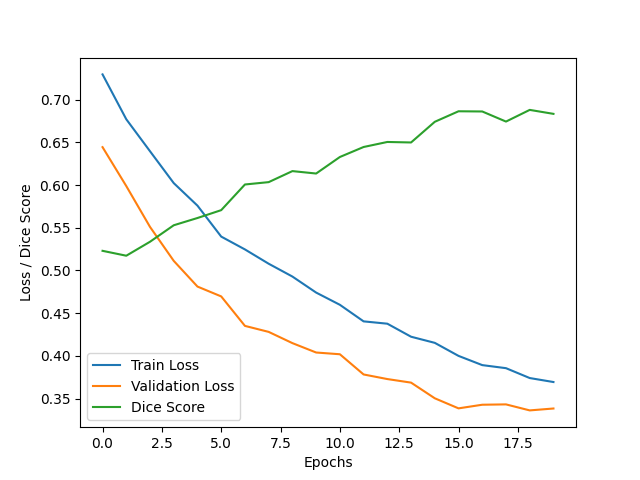
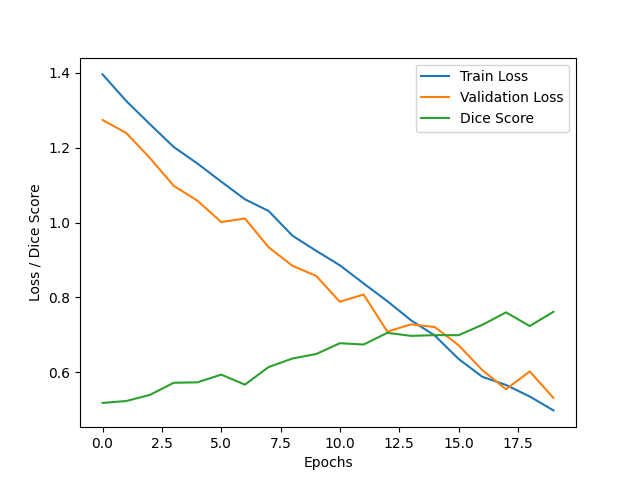
changed loss function and scheduler, dice value increased from .688 to .7617

diff --git a/classical_ml/models/train.py b/classical_ml/models/train.py
@@ -5,6 +5,7 @@ import numpy as np
 from pathlib import Path
 from torch.utils.data import Dataset, DataLoader
 import torch
+import torch.nn as nn
 import torch.optim as optim
 from tqdm import tqdm
 import matplotlib.pyplot as plt
@@ -169,9 +170,14 @@ model = UNet(
     num_res_units=2,
 ).to(device)
 
-criterion = DiceLoss(sigmoid=True)
+# criterion = DiceLoss(sigmoid=True)
+dice_loss = DiceLoss(sigmoid=True)
+bce_loss = nn.BCEWithLogitsLoss()
+def criterion(outputs, masks):
+    return dice_loss(outputs, masks) + bce_loss(outputs, masks)
 optimizer = optim.Adam(model.parameters(), lr=1e-3)
-scheduler = optim.lr_scheduler.StepLR(optimizer, step_size=5, gamma=0.5)
+# scheduler = optim.lr_scheduler.StepLR(optimizer, step_size=5, gamma=0.5)
+scheduler = optim.lr_scheduler.ReduceLROnPlateau(optimizer, mode='min', patience=5, factor=0.5)
 num_epochs = 20
 
 
@@ -233,7 +239,7 @@ for epoch in range(num_epochs):
 
     val_loss = val_loss / val_total if val_total > 0 else 0.0
     val_dice = np.mean(dice_scores)
-    scheduler.step()
+    scheduler.step(val_loss)
 
     print(f"Epoch {epoch+1:02d}: Train Loss {train_loss:.4f} | Val Loss {val_loss:.4f} | Val Dice {val_dice:.4f}")
 
@@ -244,7 +250,7 @@ for epoch in range(num_epochs):
     if val_dice > best_val_dice:
         best_val_dice = val_dice
         best_val_loss = val_loss
-        save_path = MODELS_DIR / "unet_model.pth"
+        save_path = MODELS_DIR / "unet_model_improved_1.pth"
         MODELS_DIR.mkdir(parents=True, exist_ok=True)
         torch.save(model.state_dict(), save_path)
         print(f"  ✅ Best model saved → {save_path}  (val loss: {val_loss:.4f})")

diff --git a/classical_ml/models/heatmap.py b/classical_ml/models/heatmap.py
@@ -25,7 +25,7 @@ model = UNet(
     num_res_units=2,
 ).to(device)
 
-model.load_state_dict(torch.load(MODELS_DIR / "unet_model.pth", map_location=device))
+model.load_state_dict(torch.load(MODELS_DIR / "unet_model_improved_1.pth", map_location=device))
 model.eval()
 
 transform = Compose([
